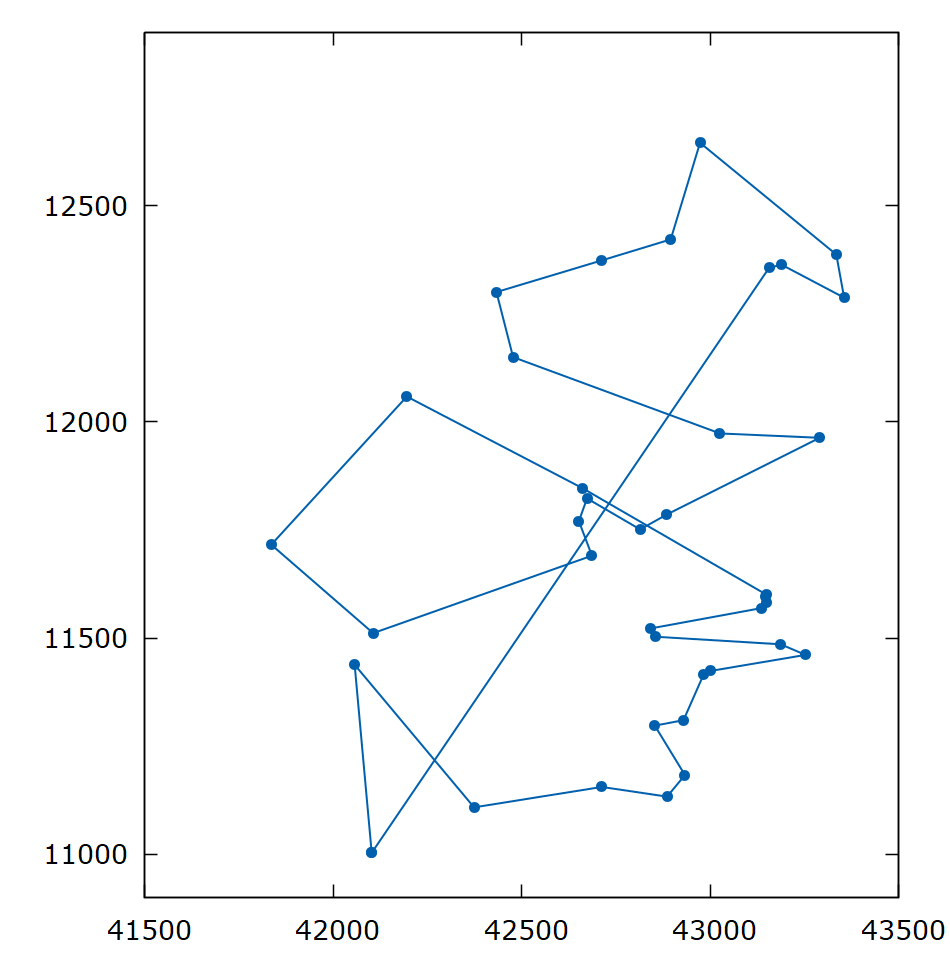
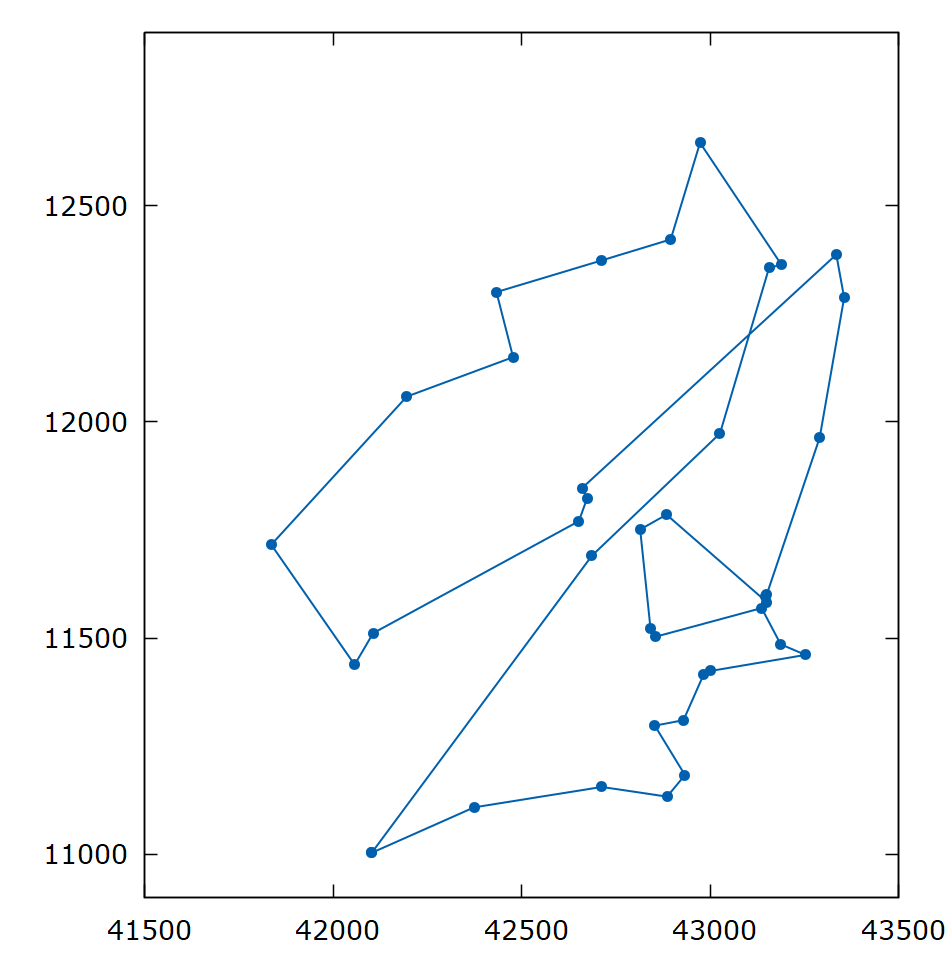
improvement for create neighbors

diff --git a/src/state/state.rs b/src/state/state.rs
@@ -1,6 +1,9 @@
 use rand::Rng;
 use crate::state::city::City as City;
 
+#[derive(Clone, Debug)]
+struct CityIndex(City, usize);
+
 #[derive(Clone, Debug, Eq, Ord, PartialEq, PartialOrd)]
 pub struct State {
     pub parent : *const State,
@@ -18,16 +21,8 @@ pub struct State {
      */
      pub fn get_neighbors(&self, mut n : u32) -> Vec<State> {
          let mut neighbors : Vec<State> = Vec::new();
-         let m = self.tour.len();
-         let mut random_1;
-         let mut random_2;
          while n != 0 {
-             random_1  = rand::thread_rng().gen_range(1, m);
-             random_2  = rand::thread_rng().gen_range(1, m);
-             while random_1 == random_2 {
-                 random_2 = rand::thread_rng().gen_range(1, m);
-             }
-             let new_neighbor = self.get_neighbor(random_1, random_2);
+             let new_neighbor = self.get_neighbor();
              neighbors.push(new_neighbor);
              n-=1;
          }
@@ -37,16 +32,79 @@ pub struct State {
 
      /**
      * Get a new neighbor from the current state.
-     * Swap the countries in position_1 and position_2.
-     * position_1, position_2: positions of countries in tour vector.
+     * Search for paths that intersects each other and 'destroy' the intersection.
+     * If no intersection found, then random swap .
      */
-     fn get_neighbor (&self, position_1 : usize, position_2 : usize) -> State {
+     fn get_neighbor (&self) -> State {
          let mut new_tour = self.tour.clone();
-         let tmp = new_tour[position_1].clone();
-         new_tour[position_1] = new_tour[position_2].clone();
-         new_tour[position_2] = tmp;
-         let new_neighbor = State { parent: self, tour: new_tour};
-         return new_neighbor;
+         let new_neighbor : State;
+         for i in 0..self.tour.len() {
+             if i + 1 != self.tour.len() {
+                let city_1 = self.tour[i].clone();
+                let city_2 = self.tour[i+1].clone();
+                let city_index_1 = CityIndex(city_1, i);
+                let city_index_2 = CityIndex(city_2, i+1);
+                match self.intersect_path(city_index_1, city_index_2.clone()) {
+                    Some ((city_index_3, _city_index_4)) => {
+                        new_tour[i+1] = city_index_3.0;
+                        new_tour[city_index_3.1] = city_index_2.0;
+                        new_neighbor = State { parent: self, tour: new_tour};
+                        return new_neighbor;
+                    },
+                    _ =>
+                    {
+                        continue;
+                    }
+                }
+            }
+        }
+        /* No lines intersection found, random swap */
+        let position_1 = rand::thread_rng().gen_range(1, self.tour.len());
+        let mut position_2 = rand::thread_rng().gen_range(1, self.tour.len());
+        while position_1 == position_2 {
+            position_2 = rand::thread_rng().gen_range(1, self.tour.len());
+        }
+        let tmp = new_tour[position_1].clone();
+        new_tour[position_1] = new_tour[position_2].clone();
+        new_tour[position_2] = tmp;
+        new_neighbor = State { parent: self, tour: new_tour};
+        return new_neighbor;
+     }
+
+     /**
+     * Given two cities with their index, search for cities
+     * that makes a path which intersect with the path of the given cities.
+     * city_1: Tuple with a city and its index.
+     * city_2: Tuple with a city and its index.
+     * return the cities with their index, otherwise return None.
+     *
+     */
+     fn intersect_path (&self, city_1 : CityIndex, city_2 : CityIndex) -> Option<(CityIndex, CityIndex)> {
+         for i in 0..self.tour.len() {
+             if i + 1 != self.tour.len() {
+                 if city_1.1 == i && city_2.1 == i + 1 ||
+                    city_2.1 == i && city_1.1 == i + 1 {
+                        continue;
+                 }
+                 let city_3 = self.tour[i].clone();
+                 let city_4 = self.tour[i+1].clone();
+                 let index_city_3 = i;
+                 let index_city_4 = i + 1;
+                 let y_diff_1 = city_2.0.y_axis - city_1.0.y_axis;
+                 let x_diff_1 = city_1.0.x_axis - city_2.0.x_axis;
+
+                 let y_diff_2 = city_4.y_axis - city_3.y_axis;
+                 let x_diff_2 = city_3.x_axis - city_4.x_axis;
+
+                 let delta = y_diff_1 * x_diff_2 - x_diff_1 * y_diff_2;
+
+                 if delta == 0.0 {
+                    let res = (CityIndex(city_3, index_city_3), CityIndex(city_4, index_city_4));
+                    return Some(res);
+                 }
+             }
+         }
+         None
      }
 
      /**

diff --git a/src/main.rs b/src/main.rs
@@ -12,11 +12,11 @@ fn main() {
     let path_file = args[1].clone();
     let initial_state = get_initial_state(path_file);
     let start = Instant::now();
-    let iter = 600;
+    let iter = 800;
     let temp = 500.0;
     let attemp_level = 10;
-    let decrease_temp = 0.80;
-    let neighbors_level = 10;
+    let decrease_temp = 0.10;
+    let neighbors_level = 25;
     let best = sim_ann::simulated_annealing(initial_state, iter, temp, attemp_level, decrease_temp, neighbors_level);
     let duration = start.elapsed();
     println!("Tiempo: {:?} segundos", duration);

diff --git a/README.md b/README.md
@@ -3,10 +3,10 @@ Simulated Annealing for TSP.
 
 ### Dependencies
 * Rust v1.5
-* Cargo v.15
+* Cargo v1.5
 * Gnuplot v5.4
 
-### Input 
+### Input
 
 A file with the `(x,y)` coordinates of every city with this format.
 
@@ -17,7 +17,7 @@ A file with the `(x,y)` coordinates of every city with this format.
 9.78 3.43
 ```
 
-### Run 
+### Run
 
 `path_file`: The path of file with the coordinates of every city.
 
